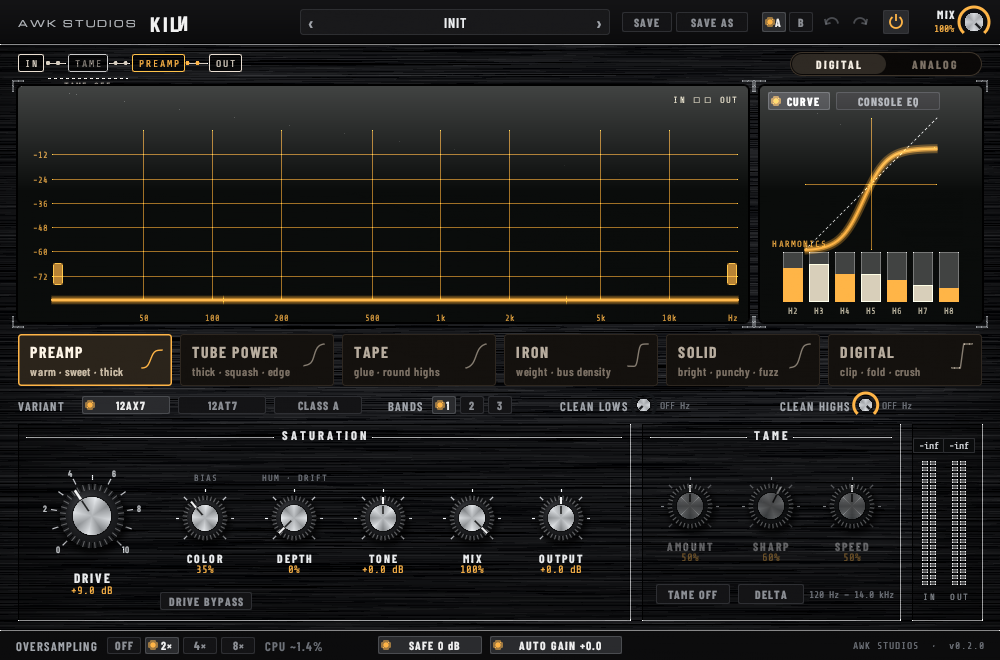
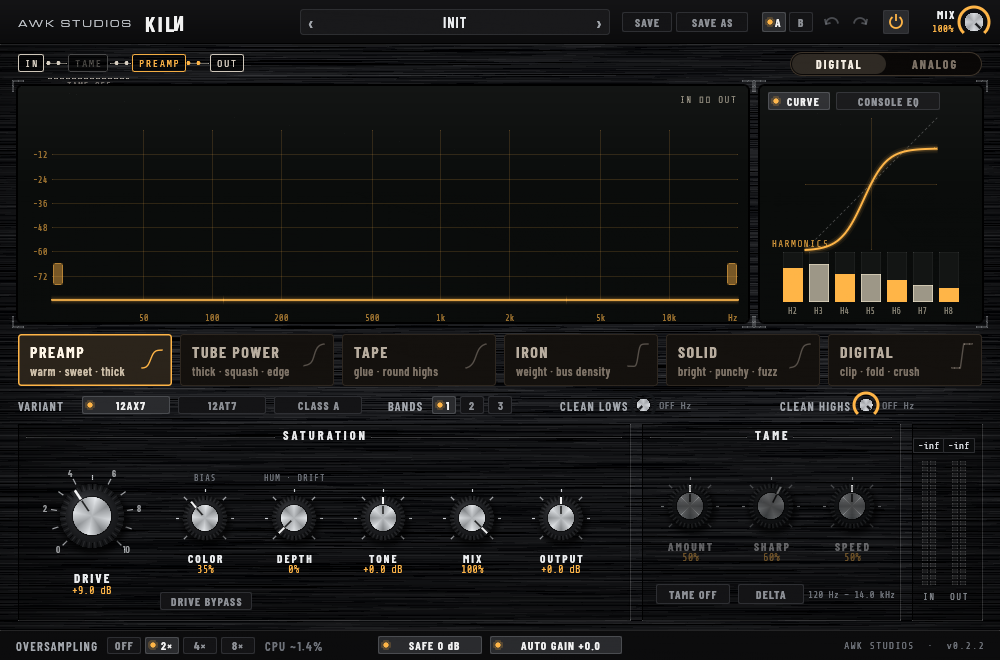
Update screenshots

diff --git a/README.md b/README.md
@@ -4,6 +4,8 @@
 
 ![KILN](docs/images/screenshot.png)
 
+![KILN analog face](docs/images/analog.png)
+
 KILN has six saturation types with three variants each. TAME runs before the drive and takes the harsh resonances out, so you can push hard without fizz. It has two faces over the same controls: DIGITAL (spectrum, curve and harmonics) and ANALOG (a worn rack unit).
 
 ## Features
